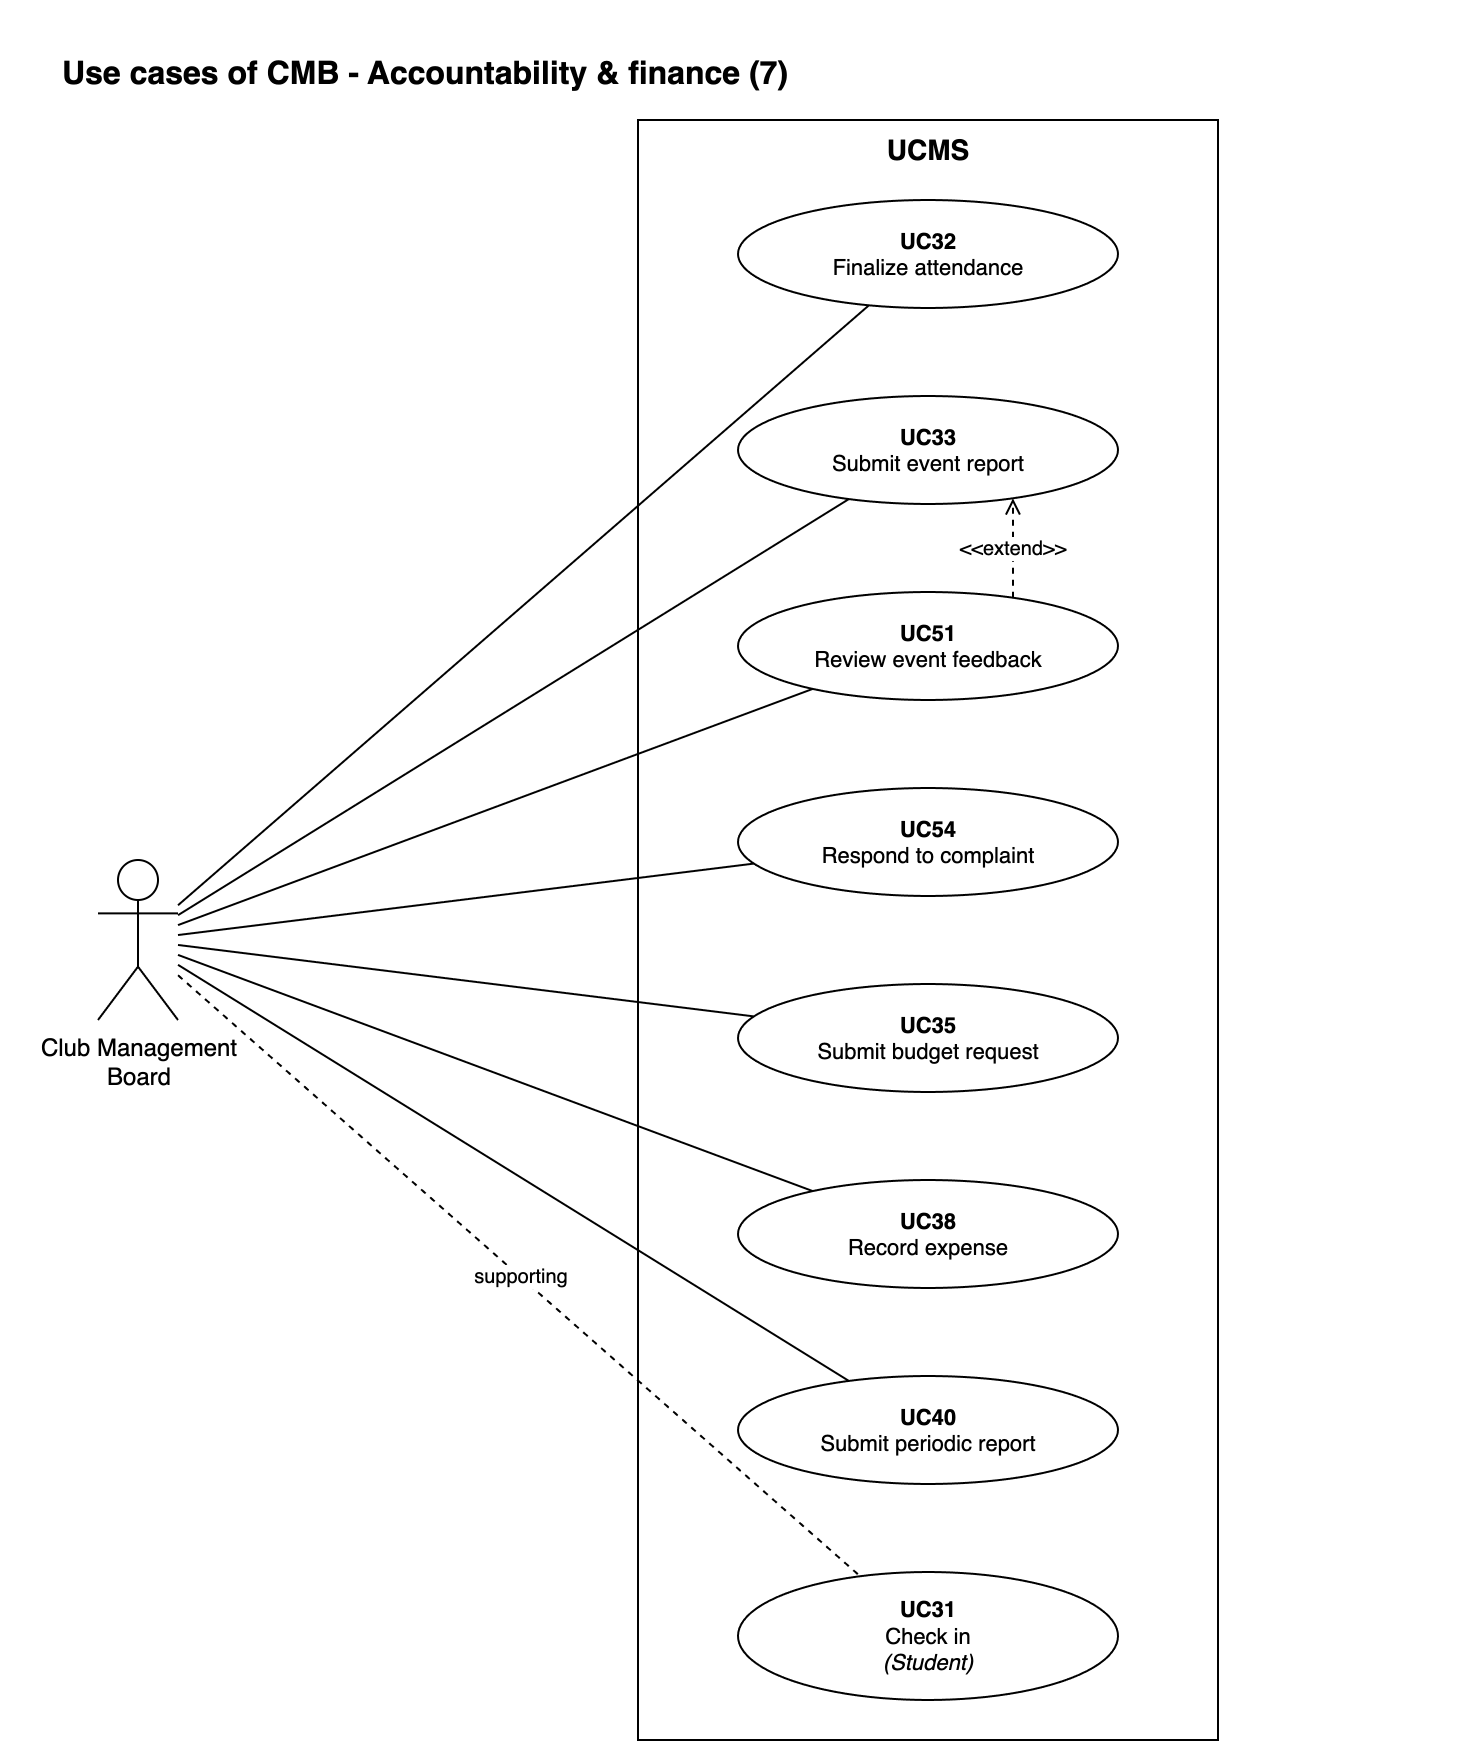
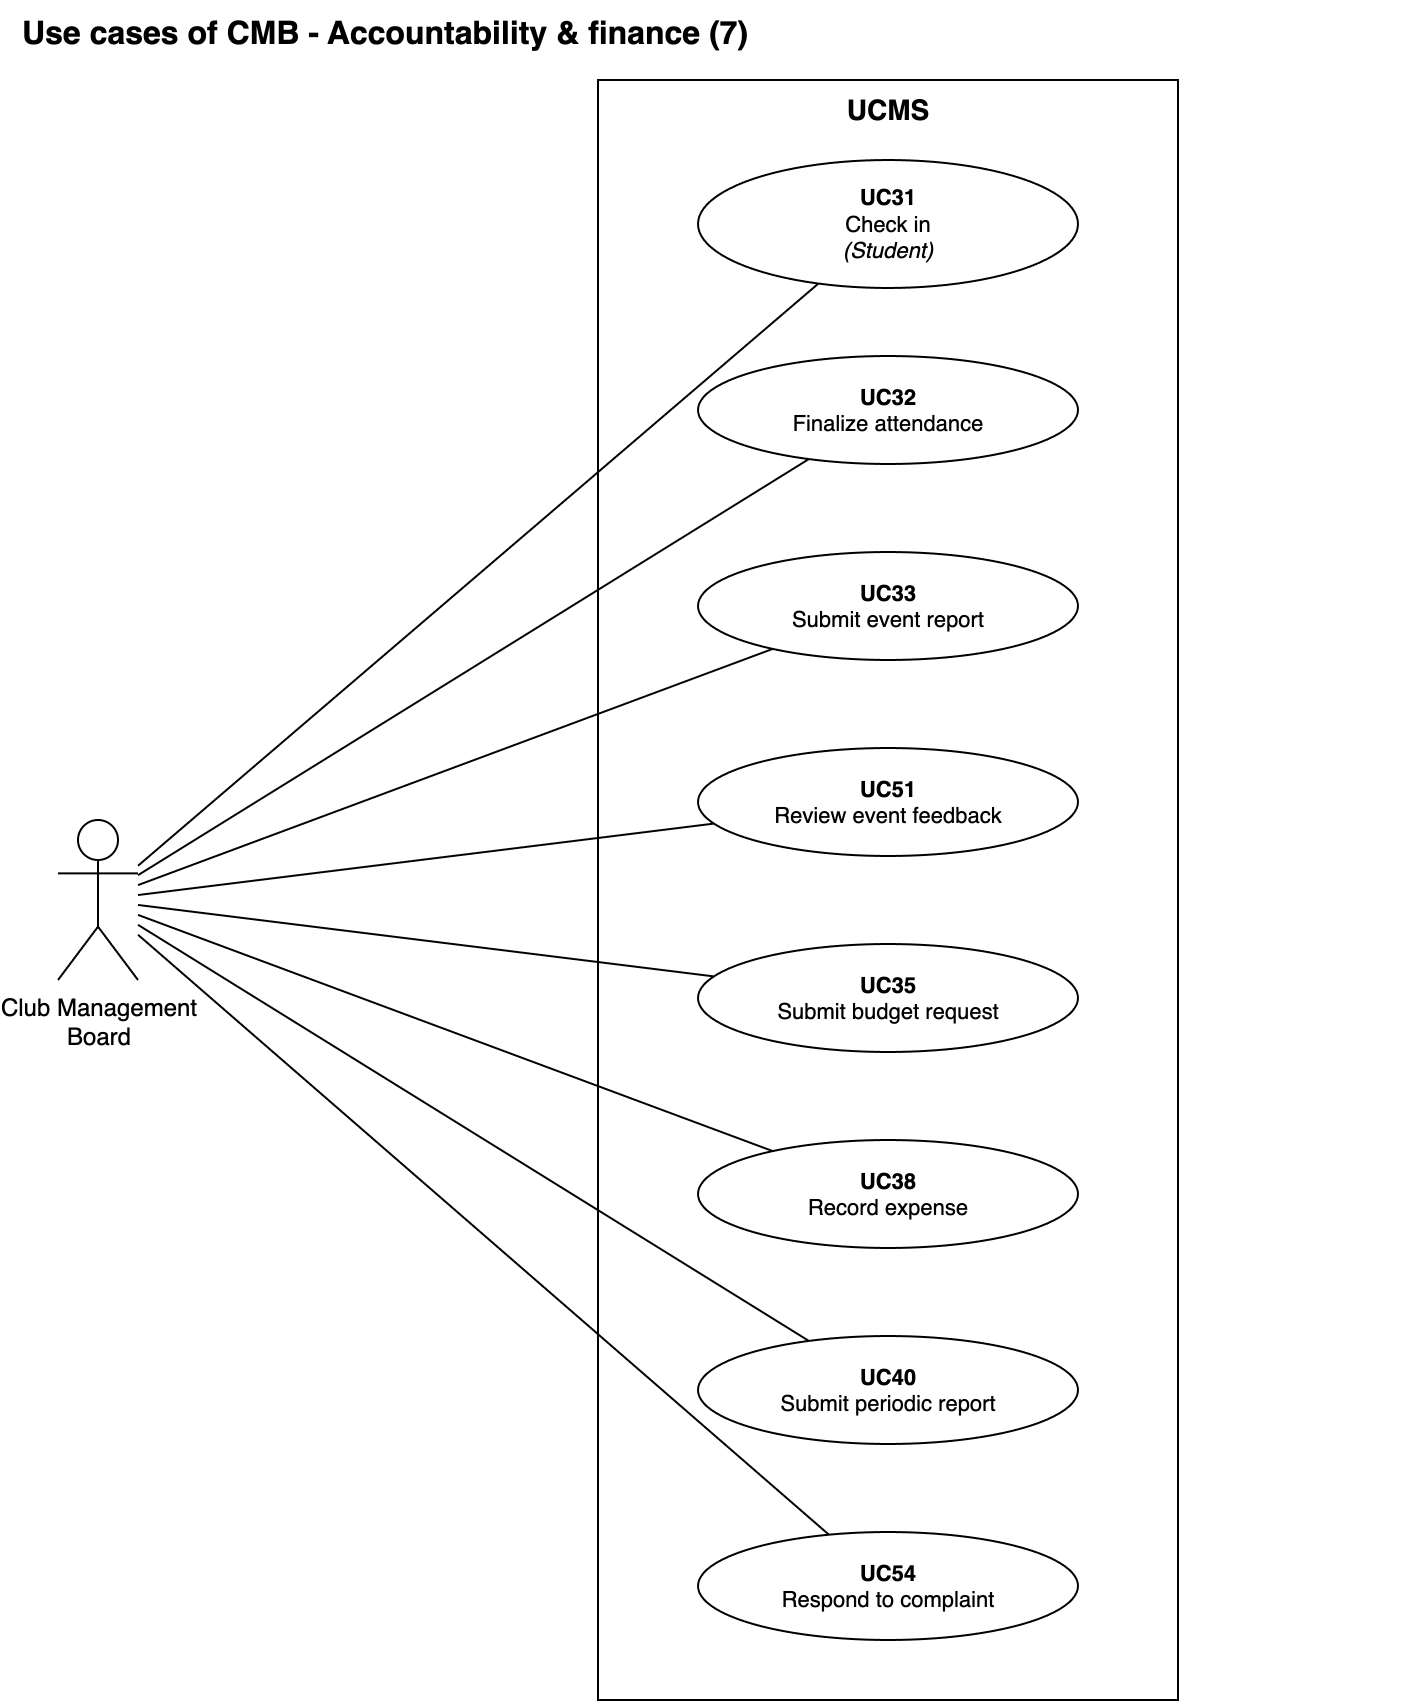
docs(diagrams): clean up the CMB 4 page notation (I30)
- CMB to UC31 is a plain association; the dashed "supporting" edge is
  not UML notation, and the supporting role stays in the spec.
- Drop UC51 «extend» UC33; the feedback summary is data UC33 reads,
  not behaviour inserted into its flow.
- Order the ovals by business flow: attendance and event close-out,
  finance, periodic report, complaint.
- Review tracker: add I30.

diff --git a/docs/UCMS_Review_Issues.md b/docs/UCMS_Review_Issues.md
@@ -55,6 +55,7 @@ Ngày review: 2026-09-23.
 | I27 | 🟡 | `«extend»` trên trang Student vẽ điều hướng giao diện (UC17/UC29 → UC06; UC22/UC29/UC31/UC50 → UC24) | UCD Student, Spec UC24 | Đã sửa | Xoá 6 cạnh «extend»; Student chỉ còn association tới 9 UC; Spec UC24 bước 3 ghi rõ là điều hướng; huỷ cách sửa của I12 |
 | I28 | 🟡 | `«extend»` vẽ cascade hệ thống: `UC28 / UC49 → UC15`, `UC42 → UC49`; UC của ICPDP mượn sang trang CMB 3 | UCD CMB 3, ICPDP 1, ICPDP 3; Spec UC15 | Đã sửa | Xoá 3 loại cạnh và các node mượn; cascade ghi ở Postconditions UC15 (Spec UC28 A1, UC49 A1 đã có); giữ `UC47 «extend» UC25`, `UC49 «extend» UC28` |
 | I29 | 🟢 | Trang All users: nhãn Google OAuth hiện nguyên `<br>`; UC02 nằm trên UC01; nhãn actor CMB đè lên actor ICPDP | UCD All users | Đã sửa | Sửa escape nhãn; đảo vị trí UC01/UC02; giãn 3 actor. Giữ tên "Sign in with Google" và actor hình người |
+| I30 | 🟡 | Trang CMB 4: cạnh nét đứt "supporting" CMB–UC31 không phải ký hiệu UML; `UC51 «extend» UC33` là luồng dữ liệu; thứ tự oval lộn xộn | UCD CMB 4 | Đã sửa | Đổi thành association nét liền; xoá cạnh «extend» (không đổi sang «include»); xếp lại theo luồng UC31→32→33→51, 35→38, 40, 54 |
 
 ---
 
@@ -708,3 +709,33 @@ Ngày review: 2026-09-23.
     - `p0UC01` y 230 → 110, `p0UC02` y 110 → 230; `p0oauth` y 217 → 97 để ngang UC01.
     - Actor: `p0a1` y 150 → 160, `p0a2` y 260 → 280, `p0user` y 150 → 160.
   - Lý do: chỉ sửa lỗi hiển thị; ký hiệu và tên UC đã đúng chuẩn và khớp tài liệu.
+
+### I30 — Trang CMB 4: ký hiệu supporting, UC51–UC33, thứ tự
+- **Vấn đề (review lần 4):**
+  1. CMB nối UC31 bằng nét đứt có nhãn "supporting". UML chỉ có association (nét liền) giữa actor
+     và UC; vai trò primary/supporting không vẽ được trên cạnh mà ghi ở Spec (UC31: Primary
+     Student, Supporting CMB).
+  2. `UC51 «extend» UC33`: UC51 không chèn hành vi vào luồng UC33 — UC33 bước 1 là hệ thống nạp
+     sẵn tóm tắt feedback, không phải CMB chạy UC51. Quan hệ thật là luồng dữ liệu (output UC51 →
+     input UC33), đã có ở Related UC. UC51 còn chạy độc lập (trigger: đóng cửa sổ feedback; A1 so
+     sánh nhiều event).
+  3. Thứ tự oval: UC31 nằm cuối, UC54 chen giữa nhóm event và nhóm tài chính.
+  - Review đề nghị tách UC31 thành UC "Take attendance" riêng của CMB. **Không sửa:** Model §1 đã
+    gộp check-in thủ công vào UC31 A1 để bỏ hai primary actor của v1; tách ra thì hai UC cùng tạo
+    attendance record và BR18 phải kiểm ở hai chỗ.
+  - Review đề nghị `UC33 «include» UC51` nếu xem feedback là bắt buộc. **Không sửa:** không bắt
+    buộc — dưới ngưỡng BR40 UC51 không hiển thị nội dung.
+- **Cách sửa đề xuất:** association nét liền; xoá «extend»; xếp lại theo luồng nghiệp vụ.
+- **Xử lý:**
+  - Ngày: 2026-09-24
+  - File đã sửa: `diagrams/UCMS_UseCase_ByActor.drawio` — trang CMB 4;
+    `diagrams/img/UCMS_UseCase_ByActor_06_CMB-4-Accountability-finance.png`.
+  - Thay đổi:
+    - `p5e8`: nét đứt nhãn "supporting" → association nét liền, không nhãn. Oval UC31 giữ ghi chú
+      *(Student)* để biết UC mượn từ trang Student.
+    - Xoá `p5e9` (`UC51 «extend» UC33`).
+    - Thứ tự từ trên xuống: UC32, UC33, UC51, UC54, UC35, UC38, UC40, UC31 → UC31, UC32, UC33,
+      UC51 (điểm danh, đóng event) · UC35, UC38 (tài chính) · UC40 (báo cáo định kỳ) · UC54
+      (khiếu nại).
+  - Lý do: UCD chỉ dùng ký hiệu UML chuẩn; phân vai actor và luồng dữ liệu thuộc về Spec. Sắp
+    theo luồng nghiệp vụ giữ các UC liên quan cạnh nhau và gần như tăng dần theo ID.
